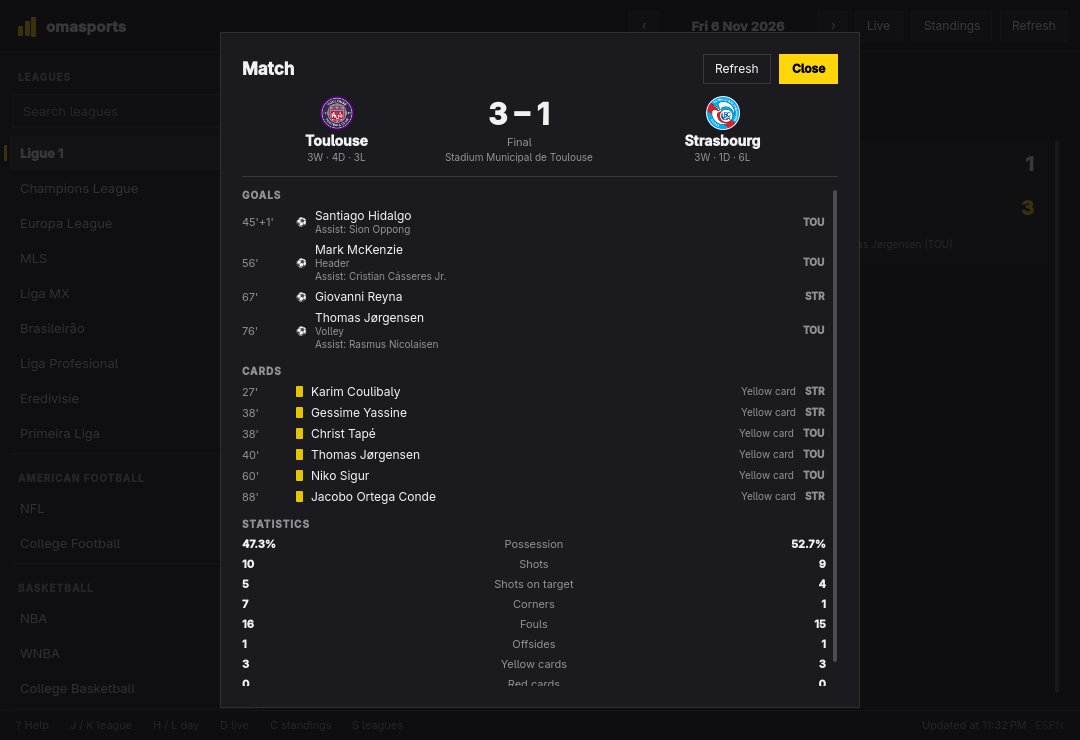
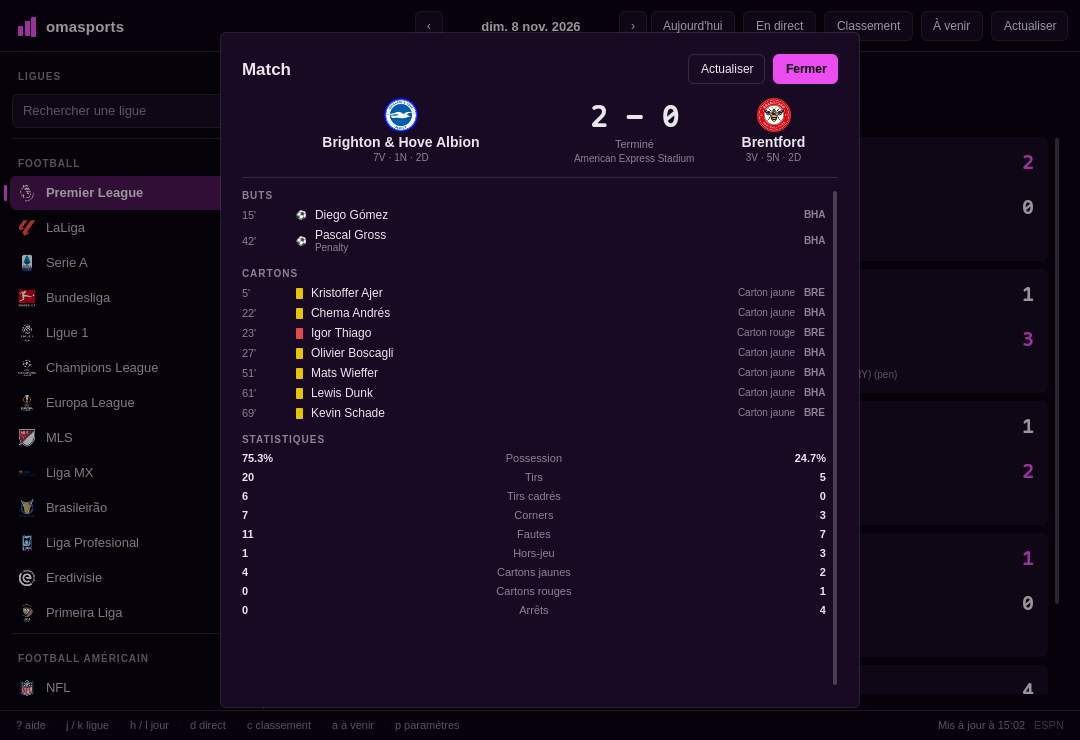
docs: regenerer les captures d ecran depuis la version 1.0

diff --git a/README.fr.md b/README.fr.md
@@ -5,7 +5,7 @@
 **Version 1.0.0** — Scores et calendriers de tous les sports, dans une seule fenêtre, au clavier.
 Application de bureau Qt Quick native pour Linux qui suit le thème et la langue d'Omarchy.
 
-![omasports affichant les résultats NBA](screenshot.png)
+![omasports affichant les résultats de Premier League](screenshot.png)
 
 ## Ce que fait l'application
 

diff --git a/README.md b/README.md
@@ -5,7 +5,7 @@ English | [Français](README.fr.md)
 **Version 1.0.0** — Live scores and fixtures for every sport, in one window, from the keyboard.
 Native Qt Quick desktop app for Linux that follows your Omarchy theme and language.
 
-![omasports showing NBA results](screenshot.png)
+![omasports showing Premier League results](screenshot.png)
 
 ## What it does
 
